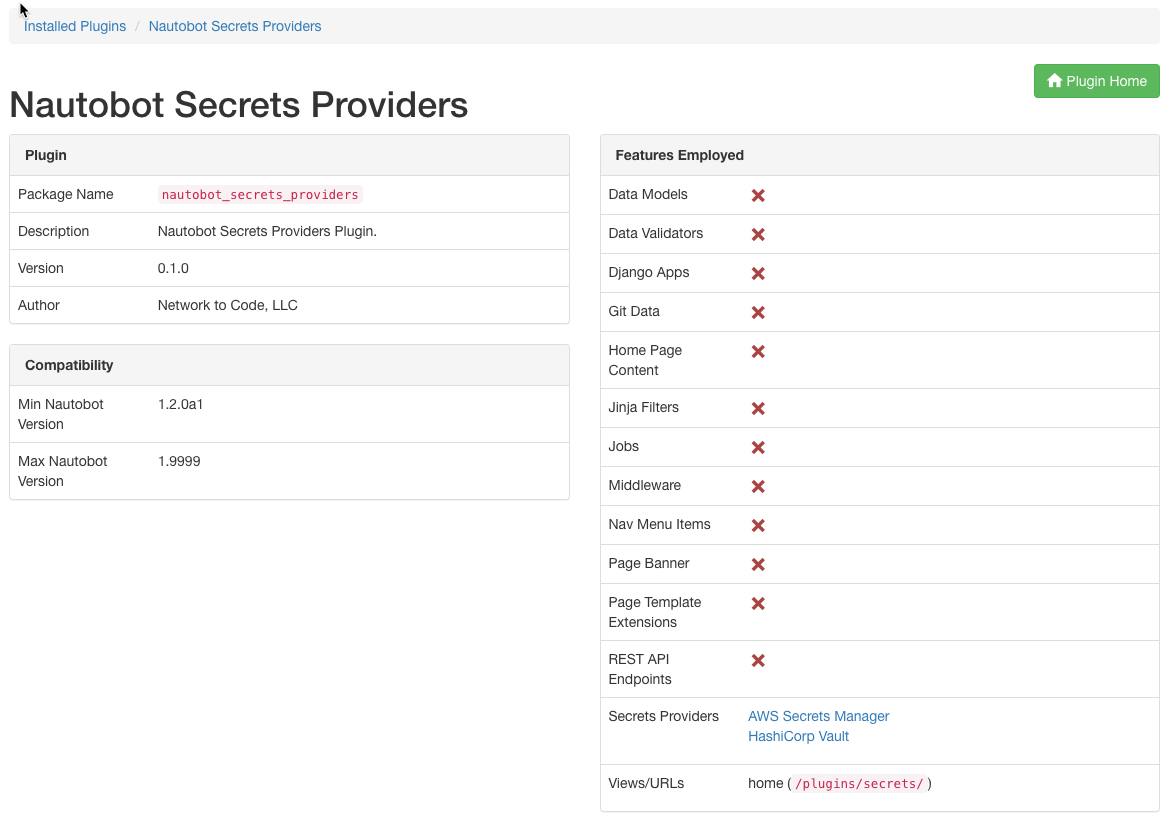
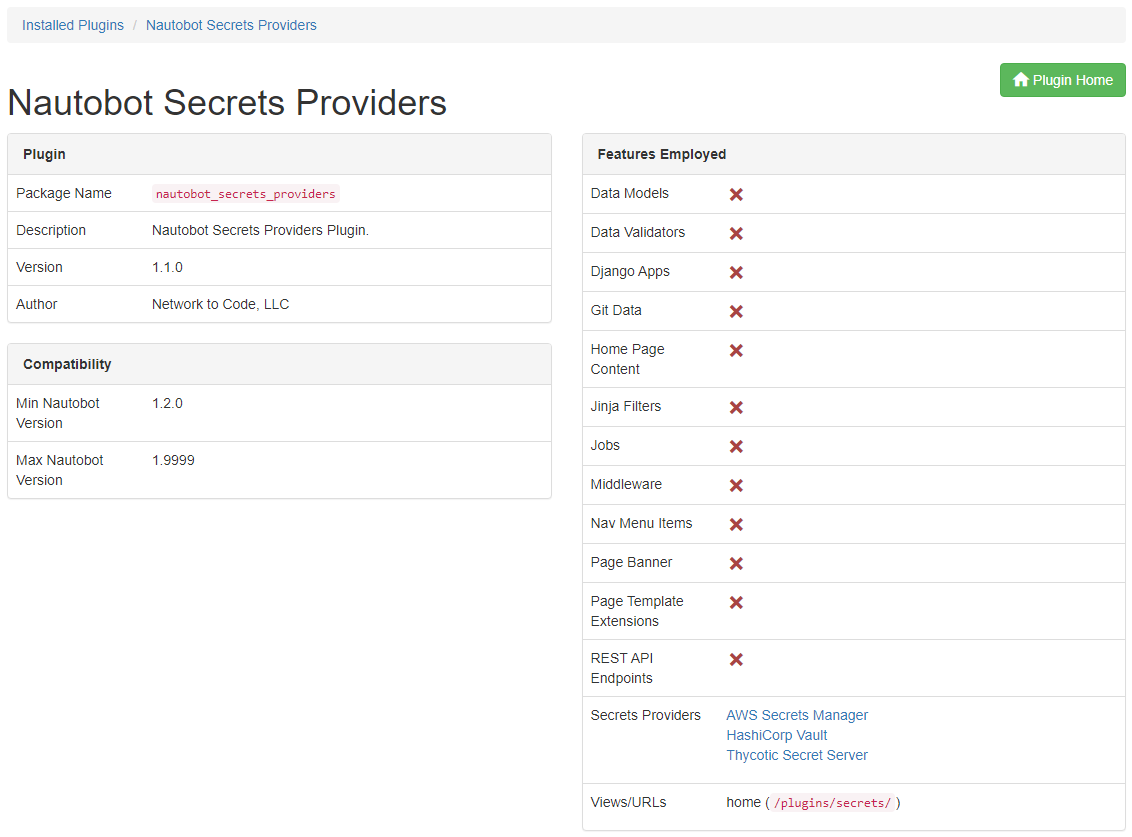
WIP: Thycotic Secret Server inetgration

diff --git a/nautobot_secrets_providers/templates/nautobot_secrets_providers/home.html b/nautobot_secrets_providers/templates/nautobot_secrets_providers/home.html
@@ -31,6 +31,16 @@
                         <td><a href="https://www.vaultproject.io/docs/secrets/kv/kv-v2" rel="nofollow">K/V Version 2</a></td>
                         <td><a href="https://www.vaultproject.io/docs/auth/token" rel="nofollow">Token</a></td>
                     </tr>
+                    <tr>
+                        <td><a href="https://thycotic.com/" rel="nofollow">Thycotic Secret Server</a></td>
+
+                        <td><a href="https://github.com/thycotic/python-tss-sdk#secret-server-cloud" rel="nofollow">Secret Server Cloud</a><br/>
+                            <a href="https://github.com/thycotic/python-tss-sdk#secret-server" rel="nofollow">Secret Server (on-prem)</a></td>
+
+                        <td><a href="https://github.com/thycotic/python-tss-sdk#password-authorization" rel="nofollow">Password Authorization</a><br/>
+                            <a href="https://github.com/thycotic/python-tss-sdk#domain-authorization" rel="nofollow">Domain Authorization</a><br/>
+                            <a href="https://github.com/thycotic/python-tss-sdk#access-token-authorization" rel="nofollow">Access Token Authorization</a></td>
+                    </tr>
                 </tbody>
             </table>
         </div>

diff --git a/nautobot_secrets_providers/providers/thycotic.py b/nautobot_secrets_providers/providers/thycotic.py
@@ -1,13 +1,26 @@
 """Secrets Provider for Thycotic Secret Server."""
+import os
+from pathlib import Path
 
 from django import forms
 from django.conf import settings
 
 try:
-    import hvac
-except ImportError:
-    hvac = None
+    from thycotic.secrets.server import (
+        AccessTokenAuthorizer,
+        PasswordGrantAuthorizer,
+        DomainPasswordGrantAuthorizer,
+        SecretServerCloud,
+        SecretServer,
+        ServerSecret,
+        SecretServerError,
+    )
 
+    thycotic_installed = True
+except ImportError:
+    thycotic_installed = False
+
+from nautobot.core.settings_funcs import is_truthy
 from nautobot.utilities.forms import BootstrapMixin
 from nautobot.extras.secrets import exceptions, SecretsProvider
 
@@ -18,20 +31,28 @@ __all__ = ("ThycoticSecretServerSecretsProvider",)
 class ThycoticSecretServerSecretsProvider(SecretsProvider):
     """A secrets provider for Thycotic Secret Server."""
 
-    slug = "thycotic-tss"
-    name = "Thycotic Secret Server"
-    is_available = hvac is not None
+    slug = "thycotic-tss"  # type: ignore
+    name = "Thycotic Secret Server"  # type: ignore
+    is_available = thycotic_installed
 
     class ParametersForm(BootstrapMixin, forms.Form):
         """Required parameters for Thycotic Secret Server."""
 
-        path = forms.CharField(
+        secret_id = forms.IntegerField(
             required=True,
-            help_text="The path to the Thycotic Secret Server secret",
+            min_value=1,
+            help_text="The secret-id used to select the entry in Thycotic Secret Server.",
         )
-        key = forms.CharField(
+        secret_selected_value = forms.ChoiceField(
+            label="Return value",
             required=True,
-            help_text="The key of the Thycotic Secret Server secret",
+            choices=(
+                ("password", "Password"),
+                ("username", "Username"),
+                ("url", "URL"),
+                ("notes", "Notes"),
+            ),
+            help_text="Select which value to return.",
         )
 
     @classmethod
@@ -40,32 +61,121 @@ class ThycoticSecretServerSecretsProvider(SecretsProvider):
         # This is only required for Thycotic Secret Server therefore not defined in
         # `required_settings` for the plugin config.
         plugin_settings = settings.PLUGINS_CONFIG["nautobot_secrets_providers"]
-        if "hashicorp_vault" not in plugin_settings:
-            raise exceptions.SecretProviderError(secret, cls, "Thycotic Secret Server is not configured!")
-
-        vault_settings = plugin_settings["hashicorp_vault"]
-        if "url" not in vault_settings or "token" not in vault_settings:
+        if "thycotic" not in plugin_settings:
             raise exceptions.SecretProviderError(secret, cls, "Thycotic Secret Server is not configured!")
 
         # Try to get parameters and error out early.
         parameters = secret.rendered_parameters(obj=obj)
         try:
-            secret_path = parameters["path"]
-            secret_key = parameters["key"]
+            secret_id = parameters["secret_id"]
+            secret_selected_value = parameters["secret_selected_value"]
         except KeyError as err:
             msg = f"The secret parameter could not be retrieved for field {err}"
             raise exceptions.SecretParametersError(secret, cls, msg) from err
 
-        # Get the client and attempt to retrieve the secret.
-        client = hvac.Client(url=vault_settings["url"], token=vault_settings["token"])
-        try:
-            response = client.secrets.kv.read_secret(path=secret_path)
-        except hvac.exceptions.InvalidPath as err:
-            raise exceptions.SecretValueNotFoundError(secret, cls, str(err)) from err
+        thycotic_settings = plugin_settings["thycotic"]
+        is_valid_base_url = "base_url" in thycotic_settings and thycotic_settings["base_url"] != ""
+        if not is_valid_base_url:
+            raise exceptions.SecretProviderError(secret, cls, "Thycotic Secret Server is not configured!")
+        is_valid_domain = "domain" in thycotic_settings and thycotic_settings["domain"] != ""
+        is_valid_password = "password" in thycotic_settings and thycotic_settings["password"] != ""
+        is_valid_tenant = "tenant" in thycotic_settings and thycotic_settings["tenant"] != ""
+        is_valid_token = "token" in thycotic_settings and thycotic_settings["token"] != ""
+        is_valid_username = "username" in thycotic_settings and thycotic_settings["username"] != ""
+        if_valid_ca_bundle_path = "ca_bundle_path" in thycotic_settings and thycotic_settings["ca_bundle_path"] != ""
 
-        # Retrieve the value using the key or complain loudly.
+        return cls.query_thycotic_secret_server(
+            secret=secret,
+            base_url=thycotic_settings["base_url"],
+            ca_bundle_path=thycotic_settings["ca_bundle_path"] if if_valid_ca_bundle_path else None,
+            cloud_based=thycotic_settings["cloud_based"],
+            domain=thycotic_settings["domain"] if is_valid_domain else None,
+            password=thycotic_settings["password"] if is_valid_password else None,
+            secret_id=secret_id,
+            secret_selected_value=secret_selected_value,
+            tenant=thycotic_settings["tenant"] if is_valid_tenant else None,
+            token=thycotic_settings["token"] if is_valid_token else None,
+            username=thycotic_settings["username"] if is_valid_username else None,
+            caller_class=cls,
+        )
+
+    @staticmethod
+    def query_thycotic_secret_server(
+        secret,
+        base_url,
+        ca_bundle_path=None,
+        cloud_based=None,
+        domain=None,
+        password=None,
+        secret_id=None,
+        secret_selected_value=None,
+        tenant=None,
+        token=None,
+        username=None,
+        caller_class=None,
+    ):
+        """Query Thycotic Secret Server"""
+        # Ensure required parameters are set
+        if (token is None and (username is None or password is None)) or (
+            cloud_based and (tenant is None or username is None or password is None)
+        ):
+            raise exceptions.SecretProviderError(secret, caller_class, "Thycotic Secret Server is not configured!")
+
+        if ca_bundle_path is not None:
+            # Ensure cerificates file exists if ca_bundle_path is defined
+            if not Path(ca_bundle_path).exists():
+                raise exceptions.SecretProviderError(
+                    secret,
+                    caller_class,
+                    (
+                        "Thycotic Secret Server is not configured properly! "
+                        "Trusted certificates file not found: "
+                        "Environment variable 'REQUESTS_CA_BUNDLE': "
+                        f"{ca_bundle_path}."
+                    ),
+                )
+            from_env = os.getenv("REQUESTS_CA_BUNDLE", "")
+            if from_env != ca_bundle_path:
+                os.environ["REQUESTS_CA_BUNDLE"] = ca_bundle_path
+        # Setup thycotic authorizer
+        # Username | Password | Token | Domain | Authorizer
+        #   def    |   def    |   *   |   -    | PasswordGrantAuthorizer
+        #   def    |   def    |   *   |  def   | DomainPasswordGrantAuthorizer
+        #    -     |    -     |  def  |   *    | AccessTokenAuthorizer
+        #   def    |    -     |  def  |   *    | AccessTokenAuthorizer
+        #    -     |   def    |  def  |   *    | AccessTokenAuthorizer
+        if username is not None and password is not None:
+            if domain is not None:
+                thy_authorizer = DomainPasswordGrantAuthorizer(
+                    base_url=base_url,
+                    domain=domain,
+                    username=username,
+                    password=password,
+                )
+            else:
+                thy_authorizer = PasswordGrantAuthorizer(
+                    base_url=base_url,
+                    username=username,
+                    password=password,
+                )
+        else:
+            thy_authorizer = AccessTokenAuthorizer(token)
+
+        # Get the client.
+        if cloud_based:
+            thycotic = SecretServerCloud(tenant=tenant, authorizer=thy_authorizer)
+        else:
+            thycotic = SecretServer(base_url=base_url, authorizer=thy_authorizer)
+
+        # Attempt to retrieve the secret.
         try:
-            return response["data"]["data"][secret_key]
+            secret = ServerSecret(**thycotic.get_secret(secret_id))
+        except SecretServerError as err:
+            raise exceptions.SecretValueNotFoundError(secret, caller_class, str(err)) from err
+
+        # Attempt to return the selected value.
+        try:
+            return secret.fields[secret_selected_value].value
         except KeyError as err:
             msg = f"The secret value could not be retrieved using key {err}"
-            raise exceptions.SecretValueNotFoundError(secret, cls, msg) from err
+            raise exceptions.SecretValueNotFoundError(secret, caller_class, msg) from err

diff --git a/development/nautobot_config.py b/development/nautobot_config.py
@@ -261,7 +261,28 @@ PLUGINS_CONFIG = {
             "url": os.environ.get("VAULT_URL"),
             "token": os.environ.get("VAULT_TOKEN"),
         },
-    }
+        "thycotic": {  # https://github.com/thycotic/python-tss-sdk
+            "base_url": os.getenv("SECRET_SERVER_BASE_URL"),
+            "cloud_based": is_truthy(os.getenv("SECRET_SERVER_IS_CLOUD_BASED", "False")),
+            # tenant: required when cloud_based == True
+            "tenant": os.getenv("SECRET_SERVER_TENANT", ""),
+            # Setup thycotic authorizer
+            # Username | Password | Token | Domain | Authorizer
+            #   def    |   def    |   *   |   -    | PasswordGrantAuthorizer
+            #   def    |   def    |   *   |  def   | DomainPasswordGrantAuthorizer
+            #    -     |    -     |  def  |   *    | AccessTokenAuthorizer
+            #   def    |    -     |  def  |   *    | AccessTokenAuthorizer
+            #    -     |   def    |  def  |   *    | AccessTokenAuthorizer
+            "username": os.getenv("SECRET_SERVER_USERNAME", ""),
+            "password": os.getenv("SECRET_SERVER_PASSWORD", ""),
+            "token": os.getenv("SECRET_SERVER_TOKEN", ""),
+            "domain": os.getenv("SECRET_SERVER_DOMAIN", ""),
+            # ca_bundle_path: (optional) Path to trusted certificates file.
+            #     This must be set as environment variable.
+            #     see: https://docs.python-requests.org/en/master/user/advanced/
+            "ca_bundle_path": os.getenv("REQUESTS_CA_BUNDLE", ""),
+        },
+    },
 }
 
 # When determining the primary IP address for a device, IPv6 is preferred over IPv4 by default. Set this to True to

diff --git a/nautobot_secrets_providers/providers/__init__.py b/nautobot_secrets_providers/providers/__init__.py
@@ -4,4 +4,8 @@ from .aws import AWSSecretsManagerSecretsProvider
 from .hashicorp import HashiCorpVaultSecretsProvider
 from .thycotic import ThycoticSecretServerSecretsProvider
 
-__all__ = (AWSSecretsManagerSecretsProvider, HashiCorpVaultSecretsProvider, ThycoticSecretServerSecretsProvider)  # pylint: disable=invalid-all-object
+__all__ = (  # type: ignore
+    AWSSecretsManagerSecretsProvider,
+    HashiCorpVaultSecretsProvider,
+    ThycoticSecretServerSecretsProvider,
+)

diff --git a/README.md b/README.md
@@ -12,6 +12,7 @@ This plugin supports the following popular secrets backends:
 | ------------------------------------------------------------ | ------------------------------------------------------------ | ------------------------------------------------------------ |
 | [AWS Secrets Manager](https://aws.amazon.com/secrets-manager/) | [Other: Key/value pairs](https://docs.aws.amazon.com/secretsmanager/latest/userguide/manage_create-basic-secret.html) | [AWS credentials](https://docs.aws.amazon.com/general/latest/gr/aws-sec-cred-types.html) (see Usage section below) |
 | [HashiCorp Vault](https://www.vaultproject.io)               | [K/V Version 2](https://www.vaultproject.io/docs/secrets/kv/kv-v2) | [Token](https://www.vaultproject.io/docs/auth/token)         |
+| [Thycotic Secret Server](https://thycotic.com/)               | [Secret Server Cloud](https://github.com/thycotic/python-tss-sdk#secret-server-cloud)<br/>[Secret Server (on-prem)](https://github.com/thycotic/python-tss-sdk#secret-server)| [Password Authorization](https://github.com/thycotic/python-tss-sdk#password-authorization)<br/>[Domain Authorization](https://github.com/thycotic/python-tss-sdk#domain-authorization)<br/>[Access Token Authorization](https://github.com/thycotic/python-tss-sdk#access-token-authorization)         |
 
 ## Screenshots
 
@@ -65,6 +66,14 @@ The HashiCorp Vault provider requires the `hvac` library. This can easily be ins
 
 ```no-highlight
 pip install nautobot-secrets-providers[hashicorp]
+```
+
+#### Thycotic Secret Server
+
+The Thycotic Secret Server provider requires the `python-tss-sdk` library. This can easily be installed along with the plugin using the following command:
+
+```no-highlight
+pip install nautobot-secrets-providers[thycotic]
 ```
 
 ### Enabling Secrets Providers
@@ -145,6 +154,35 @@ PLUGINS_CONFIG = {
 
 - `url` - The URL to the HashiCorp Vault instance (e.g. `http://localhost:8200`)
 - `token` - The token for authenticating the client with the HashiCorp Vault instance. As with other sensitive service credentials, we recommend that you provide the token value as an environment variable and retrieve it with `{"token": os.getenv("NAUTOBOT_HASHICORP_VAULT_TOKEN")}` rather than hard-coding it in your `nautobot_config.py`.
+
+### Thycotic Secret Server
+
+#### Configuration
+
+```python
+PLUGINS_CONFIG = {
+    "nautobot_secrets_providers": {
+        "thycotic": {  # https://github.com/thycotic/python-tss-sdk
+            "base_url": os.getenv("SECRET_SERVER_BASE_URL"),
+            "ca_bundle_path": os.getenv("REQUESTS_CA_BUNDLE", ""),
+            "cloud_based": is_truthy(os.getenv("SECRET_SERVER_IS_CLOUD_BASED", "False")),
+            "domain": os.getenv("SECRET_SERVER_DOMAIN", ""),
+            "password": os.getenv("SECRET_SERVER_PASSWORD", ""),
+            "tenant": os.getenv("SECRET_SERVER_TENANT", ""),
+            "token": os.getenv("SECRET_SERVER_TOKEN", ""),
+            "username": os.getenv("SECRET_SERVER_USERNAME", ""),
+        },
+    }
+}
+```
+- `base_url` - (required) The Secret Server base_url. _e.g.'https://pw.example.local/SecretServer'_
+- `ca_bundle_path` - (optional) When useing self-signed certificates this variable must be set to a file containing the trusted certificates (in .pem format). _e.g. '/etc/ssl/certs/ca-bundle.trust.crt'_. 
+- `cloud_based` - (optional) Set to "True" if Secret Server Cloud should be used. (Default: "False").
+- `domain` - (optional) Required for 'Domain Authorization'
+- `password` - (optional) Required for 'Secret Server Cloud', 'Password Authorization', 'Domain Authorization'.
+- `tenant` - (optional) Required for 'Domain Authorization'.
+- `token` - (optional) Required for 'Access Token Authorization'.
+- `username` - (optional) Required for 'Secret Server Cloud', 'Password Authorization', 'Domain Authorization'.
 
 ## Contributing
 
